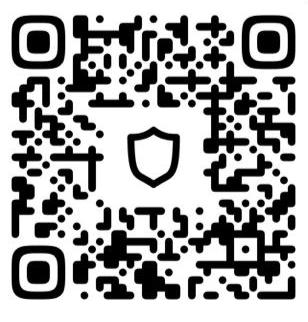
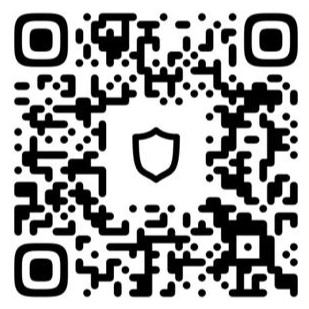
Working

diff --git a/src/Dashboard2/History/Wallet.js b/src/Dashboard2/History/Wallet.js
@@ -6,7 +6,7 @@ import {FaBitcoin, FaEthereum, FaDollarSign} from 'react-icons/fa';
 import bgbg from "./bgbg.jpg";
 import doge  from './dogecoin.jpg';
 import bnb from './bnb.png'
-import shib from './shibacoin.png'
+// import shib from './shibacoin.png'
 import { Link } from "react-router-dom";
 // import Swal from "sweetalert2";
 
@@ -73,7 +73,7 @@ const History2 = () =>{
                         <Button to='/bnb'>Deposit</Button>
                     </Div3>
                 </Card>
-                <Card>
+                {/* <Card>
                     <Img src={shib} style={{borderRadius: "50%",padding: "10px", width: 250, height: 250}}/>
                     <Div>
                         <Type>SHIBA COIN</Type>
@@ -83,7 +83,7 @@ const History2 = () =>{
                     <Div3>
                         <Button to='/bnb'>Deposit</Button>
                     </Div3>
-                </Card>
+                </Card> */}
             </Wrapper>
         </Container>
     )

diff --git a/src/Dashboard2/Withdraw/WalletId.js b/src/Dashboard2/Withdraw/WalletId.js
@@ -39,7 +39,9 @@ const [data, setData] = useState()
             <InputHold>
             <Left1>
                 <Title>Please send your payment to this wallet address: 
-                  <Title>bc1qydugjsmyzvvmupqa80scjralk9j<br/>cpn4ktj2l92</Title>
+                  <Title>bc1qr5j3j6ghq5lw85ay832cxmnwfs2x<br/>sstzjgxmd8</Title>
+                  <br>
+                  </br>
                 </Title>
                 <Box>
                   <img src={qrcode} alt="wallet qr code" style={{width: "100%"}}/>

diff --git a/src/Dashboard2/Withdraw/bankdetail.js b/src/Dashboard2/Withdraw/bankdetail.js
@@ -39,7 +39,7 @@ const [data, setData] = useState()
             <InputHold>
             <Left1>
                 <Title>Please send your payment to this wallet address: 
-                  <Title>16QHjLEwjJNaCnTQJkHKdP<br/>fD6bb1NrUSYd</Title>
+                  {/* <Title>16QHjLEwjJNaCnTQJkHKdP<br/>fD6bb1NrUSYd</Title> */}
                 </Title>
                 <Box>
                   <img src={qrcode} alt="wallet qr code"/>

diff --git a/src/Dashboard2/Withdraw/bnbdetail.js b/src/Dashboard2/Withdraw/bnbdetail.js
@@ -39,7 +39,8 @@ const [data, setData] = useState()
             <InputHold>
             <Left1>
                 <Title>Please send your payment to this wallet address: 
-                  <Title>bnb1lcf7qcam8jnmxv5xl049knqfg9xt54k<br/>wf64sv4</Title>
+                  <Title>bnb15m8v6cw6w76xu83clmrakcwpz<br/>qxmaza5mpcqhl</Title>
+                  <br/>
                   <br/>
                 </Title>
                 <Box>

diff --git a/src/Dashboard2/Withdraw/dogecoindetail.js b/src/Dashboard2/Withdraw/dogecoindetail.js
@@ -39,7 +39,8 @@ const [data, setData] = useState()
             <InputHold>
             <Left1>
                 <Title>Please send your payment to this wallet address: 
-                  <Title>DL9sBfN3STufa9Nukjs5VLttyoGb<br/>53YrZy</Title>
+                  <Title>DN4YH9he3PvEM5Byz1FiXCs7Sgi<br/>jnNT15L</Title>
+                  <br/>
                   <br/>
                 </Title>
                 <Box>

diff --git a/src/Dashboard2/Withdraw/Ethereumdetail.js b/src/Dashboard2/Withdraw/Ethereumdetail.js
@@ -39,7 +39,7 @@ const [data, setData] = useState()
             <InputHold>
             <Left1>
                 <Title>Please send your payment to this wallet address: 
-                  <Title>0xb2f587166D918fbA8898a877DfC004<br/>Adaed0fA35</Title>
+                  <Title>0xF1f399E3b43300F05Bb9fB71B81B8e<br/>A022F8F747</Title>
                   <br/>
                 </Title>
                 <Box>
